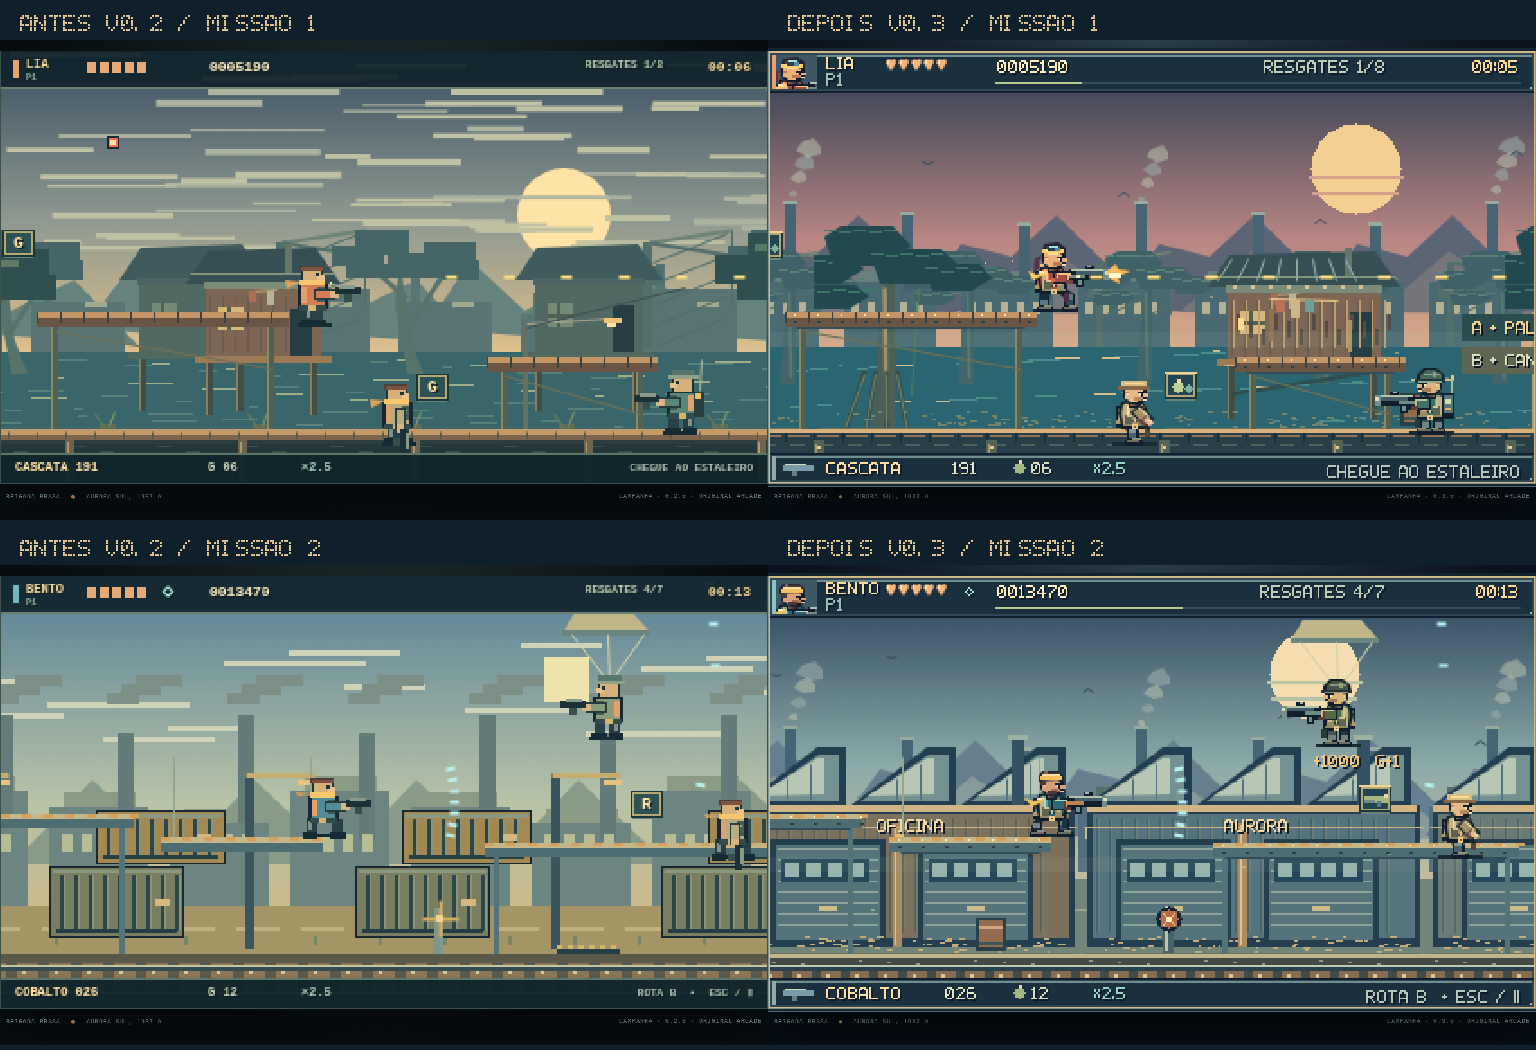
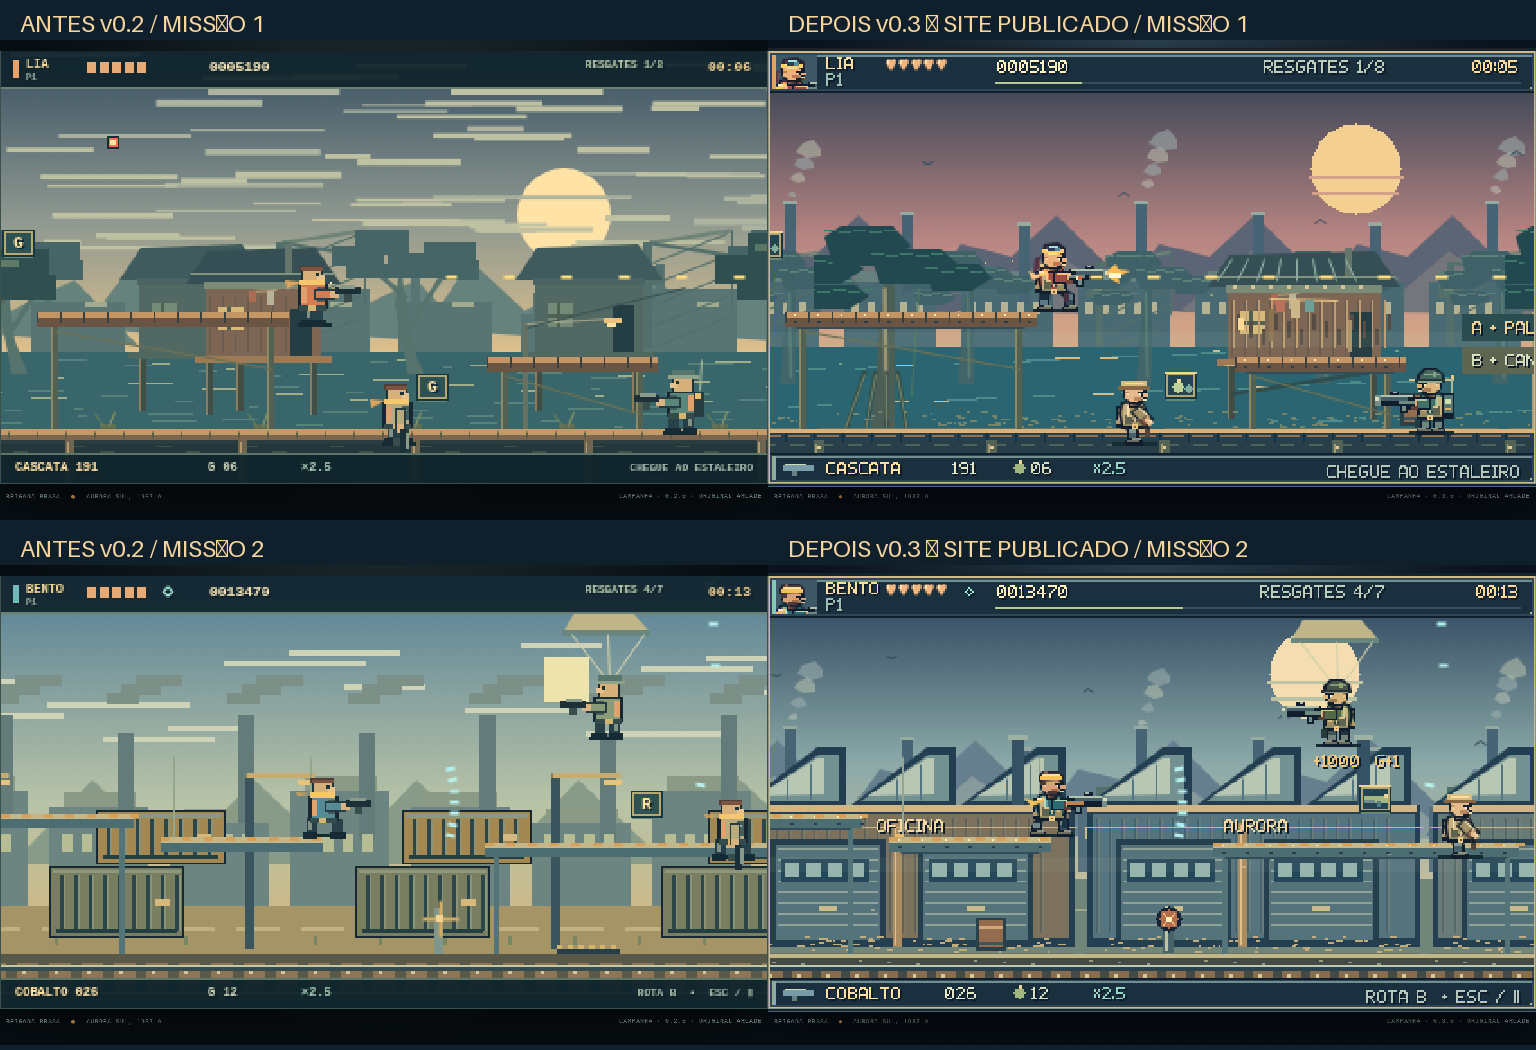
Registra QA publico e comparacao antes-depois do polimento

diff --git a/docs/PUBLICACAO.md b/docs/PUBLICACAO.md
@@ -1,7 +1,24 @@
 # Publicação — v0.3.0
 
-Jogo: https://luispauloalves500.github.io/brasa-de-aco/
-Repositório: https://github.com/luispauloalves500/brasa-de-aco
-Fonte Pages: main, raiz, HTTPS.
+- Jogo: https://luispauloalves500.github.io/brasa-de-aco/
+- Repositório: https://github.com/luispauloalves500/brasa-de-aco
+- Fonte Pages: `main`, raiz, HTTPS; push normal, sem força.
+- Verificado em 10/11/2026 18:17, America/Sao_Paulo (UTC-3).
+- Código efetivamente testado: `e8a5a36018848b73b212090014efb4426753167f`. O commit seguinte registra evidência/documentação, sem alterar lógica ou bundle.
 
-Código local validado: 65 testes Node, onze cenários funcionais Chromium e benchmark separado de submissão Canvas com relógio real. A verificação remota desta revisão será registrada após concluir o deploy; evidência anterior em archive/PUBLICACAO-v0.2.md.
+## Resultado remoto
+
+1. Raiz **HTTPS 200**, HTML usa `game-v0.3.0.js` e CSS versionado.
[1 lines of base64/hex data omitted]
+3. [CI](https://github.com/luispauloalves500/brasa-de-aco/actions/runs/42903141556) e [Pages](https://github.com/luispauloalves500/brasa-de-aco/actions/runs/42903140697) concluídos com sucesso para esse código.
+4. **Onze cenários funcionais Chromium na URL pública:** cinco M1, cinco M2 e um harness de polimento. Zero erros runtime/rejeições/console/HTTP detectados pelos harnesses; boot/API também verificados. Os mesmos cenários passaram localmente.
+5. **65 testes Node aprovados**, incluindo vitória nas duas rotas de ambas as missões por inputs normais, sem alteração de HP/teleporte/dano artificial nos bots. Recruta com escudo assistido: não certifica todas as dificuldades.
+6. Benchmark público separado, **sem tempo virtual**: 120 submissões Canvas aquecidas por missão, 260 partículas e dez explosões. M1: média 3.74 ms, P95 6.90 ms; M2: média 3.79 ms, P95 7.40 ms. Isto mede CPU de submissão, não GPU/vsync/FPS real do jogador.
+
+Evidência: `polish/QA-M1-PUBLICO.json`, `QA-M2-PUBLICO.json`, `QA-POLISH-PUBLICO.json`, `QA-PERF-PUBLICO.json` e `QA-LOGIC.txt`. Capturas da publicação em `docs/polish/` e `/workspace/brasa-shots/polish/published/`; comparação com v0.2 em `/workspace/brasa-shots/polish/comparacao-antes-depois.png`.
+
+## Cache, preservação e limites
+
+Bundle/CSS versionados e assets locais, sem CDN. O bundle já está commitado; nenhum build é necessário para jogar. **Ctrl+F5** se uma aba anterior estiver aberta. Checkpoints/progresso antigos continuam legíveis; backups válidos podem recuperar checkpoint corrompido, preservando o arquivo original.
+
+Esta revisão melhora apenas M1/M2; não adiciona missões, coop ou finais. Gamepads físicos, leitores de tela reais, áudio/mix ouvido, outros navegadores/mobile e FPS/P99 em hardware real continuam sem certificação. Trem usa referencial relativo. O objetivo de engenharia registra 1/4 do futuro Final B, não um final completo. Histórico em `archive/PUBLICACAO-v0.2.md`.

diff --git a/docs/QA.md b/docs/QA.md
@@ -7,6 +7,6 @@
 - Zero erros runtime/rejeições/console/HTTP detectados pelos harnesses. Boot e API são verificados; capturas foram inspecionadas visualmente.
 - Benchmark com relógio real, separado de testes de tempo virtual: 120 submissões Canvas por missão em cena de boss com 260 partículas e dez explosões. Não mede FPS de apresentação.
 - Evidências locais: `polish/QA-LOGIC.txt`, `QA-M1-LOCAL.json`, `QA-M2-LOCAL.json`, `QA-POLISH-LOCAL.json`, `QA-PERF-LOCAL.json`. Capturas antes/depois em `/workspace/brasa-shots/polish/`.
-- Evidência pós-deploy será registrada em PUBLICACAO.md e `polish/QA-*-PUBLICO.json` depois da execução remota.
+- Os onze cenários passaram também na URL pública, assim como o benchmark real separado. Evidência pós-deploy em PUBLICACAO.md e `polish/QA-*-PUBLICO.json`.
 
 Nenhuma alegação de certificação de 60 FPS, áudio ouvido, hardware/gamepad físico, playtest humano, coop ou campanha completa. Revisão detalhada em POLIMENTO.md; evidência histórica v0.1/v0.2 em `archive/`.
